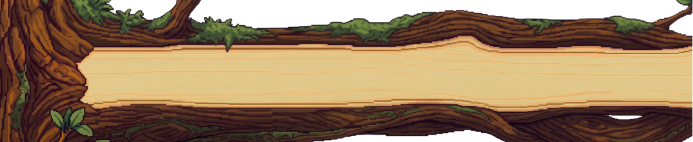
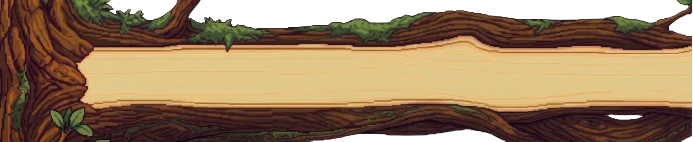
feat(Projet Drone): création d'une zone ennemi avec une hitbox ennemie et sur le joueur

diff --git a/jeu/Drones/Ennemi.cs b/jeu/Drones/Ennemi.cs
@@ -4,6 +4,7 @@ using System;
 using System.Collections.Generic;
 using System.Linq;
 using System.Text;
+using System.Drawing;
 using System.Threading.Tasks;
 
 namespace Drones
@@ -16,6 +17,11 @@ namespace Drones
         public Race _race;
         private State _state;
 
+
+        public int Width => _race == Race.TANK ? 100 : 80;
+        public int Height => Width;
+        public Rectangle Hitbox => new Rectangle(_x - 40, _y - 40, Width, Height);
+
         //Définit les différentes races d'ennemis qu'il existe
         public enum Race { NORMAL, TANK, ARMORED, SPEEDY};
         //Définit les 2 modes de déplacement de l'ennemis
@@ -24,8 +30,6 @@ namespace Drones
         //Constructeur de la classe Ennemis
         public Ennemi( Race race)
         {
-            _x = RandomHelpers.Next(Config.AIRSPACE_WIDTH);
-            _y = RandomHelpers.Next(Config.AIRSPACE_HEIGHT);
             _race = race;
             _state = State.LEFT;
         }
@@ -43,21 +47,37 @@ namespace Drones
             }
         }
 
+        public void Spawn(Drone player, List<Ennemi> autres)
+        {
+            do
+            {
+                _x = RandomHelpers.Next(Config.AIRSPACE_WIDTH);
+                _y = RandomHelpers.Next(Config.ZONE_MIN,Config.ZONE_MAX);
+            } while (Hitbox.IntersectsWith(player.Hitbox) || autres.Any(e => Hitbox.IntersectsWith(e.Hitbox)));
+        }
+
         //Méthode Update qui permet de mettre à jours les infos de la positions de l'ennemis à chaque frames
-        public void Update(int interval)
+        public void Update(int interval, List<Ennemi> autres)
         {
             Deplacement();
-            if (_x - Config.ENNEMI_SPEED <= 0 +10)
+            if (_x - Config.ENNEMI_SPEED <= 0 + Width )
             {
                 _state = State.RIGHT;
             }
 
-            if (_x + Config.ENNEMI_SPEED >= Config.AIRSPACE_WIDTH -60)
+            if (_x + Config.ENNEMI_SPEED >= Config.AIRSPACE_WIDTH - 60 )
             {
                 _state = State.LEFT;
             }
 
-
+            if (autres.Any(e => e != this && Hitbox.IntersectsWith(e.Hitbox)))
+            {
+                if (_state == State.LEFT) _state = State.RIGHT;
+                else
+                {
+                    _state = State.LEFT;
+                }
+            }
         }
 
         // De manière graphique
@@ -65,19 +85,19 @@ namespace Drones
         {
             if (_race == Race.NORMAL)
             {
-                drawingSpace.Graphics.DrawImage(Resources.normal, _x - 40, _y - 40, 120, 120);
+                drawingSpace.Graphics.DrawImage(Resources.normal, _x - 40, _y - 40, Width, Height);
             }
             if (_race == Race.SPEEDY)
             {
-                drawingSpace.Graphics.DrawImage(Resources.speedy, _x - 40, _y - 40, 120, 120);
+                drawingSpace.Graphics.DrawImage(Resources.speedy, _x - 40, _y - 40, Width, Height);
             }
             if (_race == Race.TANK)
             {
-                drawingSpace.Graphics.DrawImage(Resources.bull, _x - 40, _y - 40, 180, 180);
+                drawingSpace.Graphics.DrawImage(Resources.bull, _x - 40, _y - 40, Width, Height);
             }
             if (_race == Race.ARMORED)
             {
-                drawingSpace.Graphics.DrawImage(Resources.black11, _x - 40, _y - 40, 120, 120);
+                drawingSpace.Graphics.DrawImage(Resources.black11, _x - 40, _y - 40, Width, Height);
             }
         }
     }

diff --git a/jeu/Drones/Model/Drone.cs b/jeu/Drones/Model/Drone.cs
@@ -7,14 +7,16 @@ namespace Drones
     // Cette partie de la classe Drone définit ce qu'est un drone par un modèle numérique
     public class Drone
     {
-        public int x;                                 // Position en X depuis la gauche de l'espace aérien
-        public int y;                                 // Position en Y depuis le haut de l'espace aérien
+        public int _x;                                 // Position en X depuis la gauche de l'espace aérien
+        public int _y;                                 // Position en Y depuis le haut de l'espace aérien
+
+        public Rectangle Hitbox => new Rectangle(_x - Config.PLAYER_WIDTH/2, _y - Config.PLAYER_HEIGHT/2, Config.PLAYER_WIDTH, Config.PLAYER_HEIGHT);
 
         // Constructeur
         public Drone(int x, int y)
         {
-            this.x = x;
-            this.y = y;
+            this._x = x;
+            this._y = y;
             DirectionLeft();
             DirectionRight();
         }
@@ -28,13 +30,13 @@ namespace Drones
         // Déplace le joueur à gauche dans les cadre de la fenêtre
         public void DirectionLeft()
         {
-            if(x - Config.PLAYER_SPEED <= 0 + (Config.PLAYER_WIDTH/2)+80)
+            if(_x - Config.PLAYER_SPEED <= 0 + (Config.PLAYER_WIDTH/2)+80)
             {
-                x -= 0;
+                _x -= 0;
             }
             else
             {
-                x -= Config.PLAYER_SPEED;
+                _x -= Config.PLAYER_SPEED;
             }
         }
 
@@ -42,13 +44,13 @@ namespace Drones
         public void DirectionRight()
         {
 
-            if (x + Config.PLAYER_SPEED >= Config.AIRSPACE_WIDTH - Config.PLAYER_WIDTH / 2)
+            if (_x + Config.PLAYER_SPEED >= Config.AIRSPACE_WIDTH - Config.PLAYER_WIDTH / 2)
             {
-                x -= 0;
+                _x -= 0;
             }
             else
             {
-                x += Config.PLAYER_SPEED;
+                _x += Config.PLAYER_SPEED;
             }
                 
         }
@@ -56,7 +58,7 @@ namespace Drones
         // De manière graphique
         public void Render(BufferedGraphics drawingSpace)
         {
-            drawingSpace.Graphics.DrawImage(Resources.drone, x - (Config.PLAYER_WIDTH/2), y - (Config.PLAYER_HEIGHT/2), Config.PLAYER_WIDTH, Config.PLAYER_HEIGHT);
+            drawingSpace.Graphics.DrawImage(Resources.drone, _x - (Config.PLAYER_WIDTH/2), _y - (Config.PLAYER_HEIGHT/2), Config.PLAYER_WIDTH, Config.PLAYER_HEIGHT);
         }
     }
 }

diff --git a/jeu/Drones/Helpers/Config.cs b/jeu/Drones/Helpers/Config.cs
@@ -10,10 +10,13 @@ public class Config
 	public const int AIRSPACE_HEIGHT = 800;
 
 	public const int PLAYER_WIDTH = 80;
-    public const int PLAYER_HEIGHT = 80;
+	public const int PLAYER_HEIGHT = 80;
 
 	public const int PLAYER_SPEED = 5;
 
-	public const int ENNEMI_SPEED = 10;
+	public const int ENNEMI_SPEED = 6;
 
-}
+	public const int ZONE_MIN = 300;
+	public const int ZONE_MAX = 750;
+} 
+

diff --git a/jeu/Drones/View/AirSpace.Designer.cs b/jeu/Drones/View/AirSpace.Designer.cs
@@ -41,7 +41,6 @@
             // 
             AutoScaleDimensions = new SizeF(7F, 15F);
             AutoScaleMode = AutoScaleMode.Font;
-            BackgroundImage = Properties.Resources.fond;
             BackgroundImageLayout = ImageLayout.Center;
             ClientSize = new Size(1260, 523);
             Name = "AirSpace";

diff --git a/jeu/Drones/View/AirSpace.cs b/jeu/Drones/View/AirSpace.cs
@@ -58,7 +58,7 @@ namespace Drones
             _player.Update(interval);
             foreach (Ennemi ennemi in _enemy)
             {
-                ennemi.Update(interval);
+                ennemi.Update(interval, _enemy);
             }
         }
 
